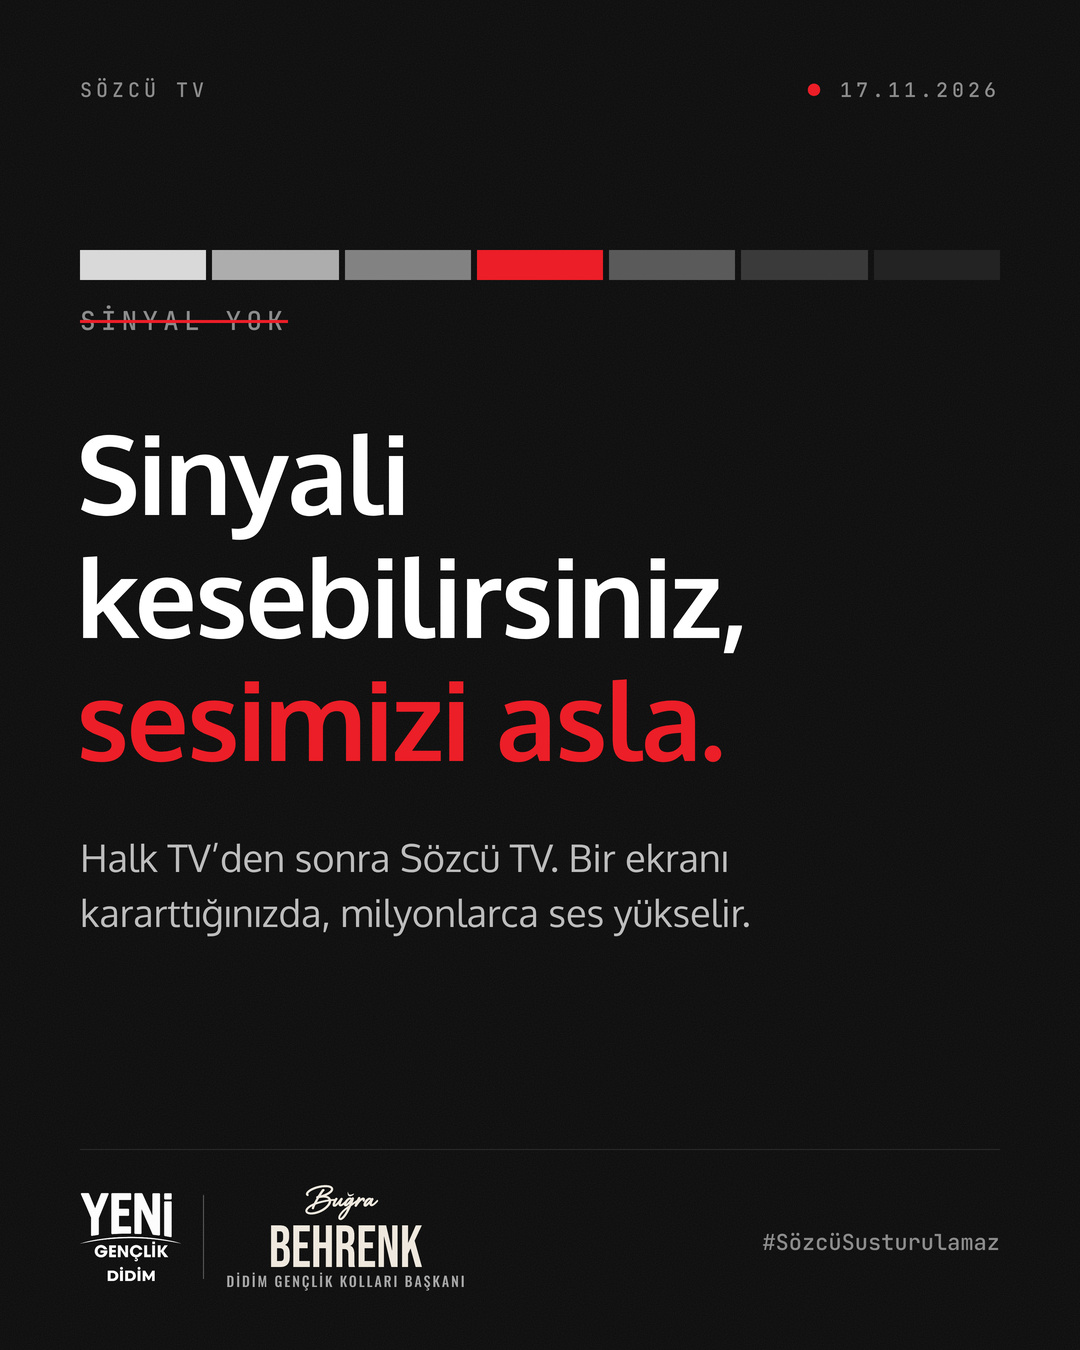
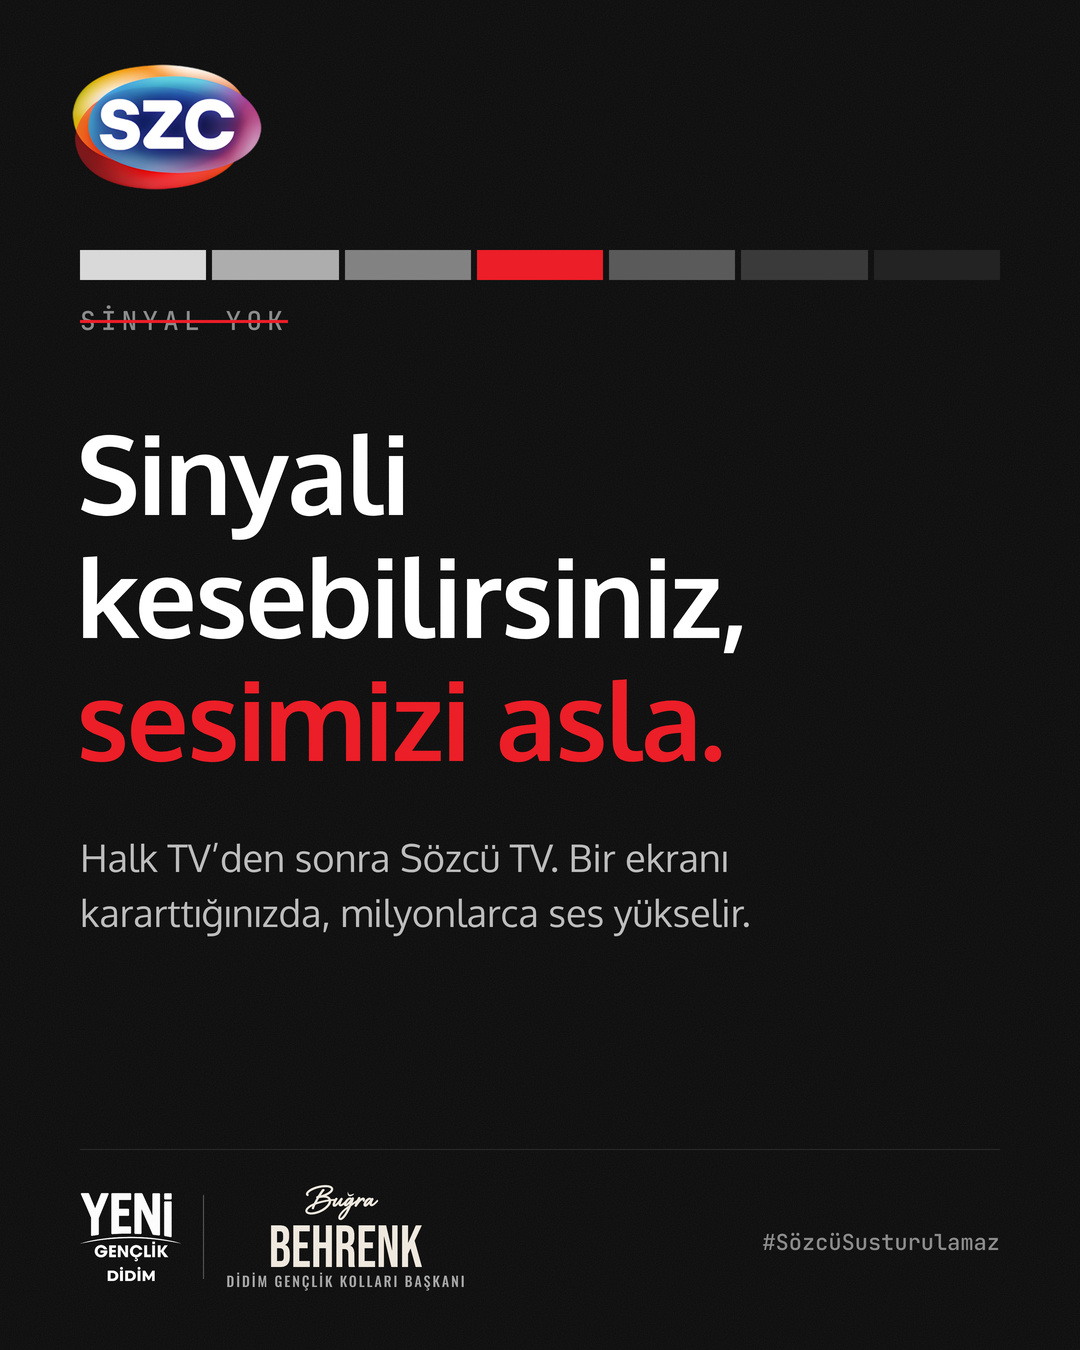
Sözcü TV Buğra: tarih ve yazı kaldırıldı, SZC logosu eklendi
Claude-Session: https://claude.ai/code/session_01SatttGbgBLoCnk9KGLypWv

Changed region(s): [[0.0611, 0.0311, 0.2444, 0.1556], [0.8861, 0.0622, 0.9167, 0.0933]]

diff --git a/tasarim/kisisel/sozcu-bugra/sade.html b/tasarim/kisisel/sozcu-bugra/sade.html
@@ -22,9 +22,9 @@ p{position:absolute;left:80px;right:120px;top:830px;margin:0;font:400 38px/1.45 
 .imza .lg{height:88px}.imza .ay{width:1px;height:84px;background:rgba(255,255,255,.3)}
 .imza .ad{display:flex;flex-direction:column;align-items:center}.imza .is{height:82px}.imza .un{font:14px/1 O5;letter-spacing:.14em;color:#A8A8A8;margin-top:7px}
 .hash{position:absolute;right:80px;bottom:96px;font:22px/1 JB;color:#8C8C8C}
-</style><body>
+.szc{position:absolute;left:72px;top:64px;width:190px}</style><body>
 <svg class="gren" width="1080" height="1350"><filter id="n"><feTurbulence type="fractalNoise" baseFrequency=".9" numOctaves="2" seed="3"/><feColorMatrix type="saturate" values="0"/></filter><rect width="1080" height="1350" filter="url(#n)"/></svg>
-<div class="ust"><span>SÖZCÜ TV</span><span><b>●</b> 17.11.2026</span></div>
+<img class="szc" src="szc-seffaf.png">
 <div class="bant"><i style="background:#D9D9D9"></i><i style="background:#ADADAD"></i><i style="background:#828282"></i><i style="background:#EC1E27"></i><i style="background:#5A5A5A"></i><i style="background:#3A3A3A"></i><i style="background:#232323"></i></div>
 <div class="bos"><s>SİNYAL YOK</s></div>
 <h1>Sinyali<br>kesebilirsiniz,<br><span>sesimizi asla.</span></h1>
